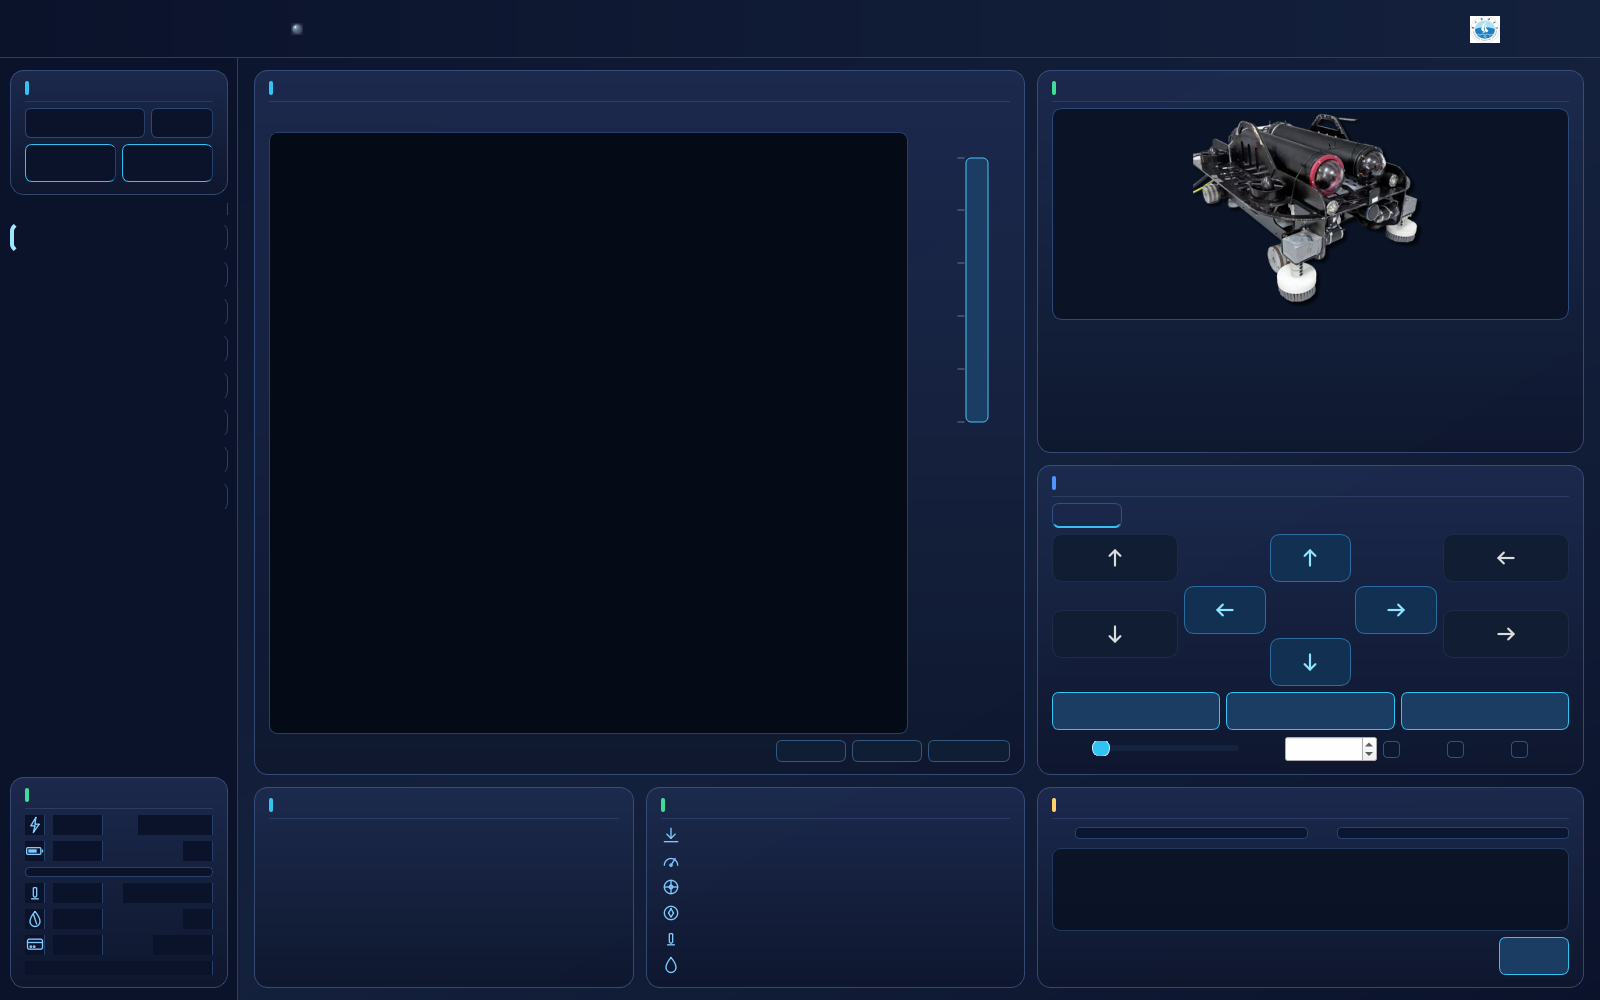
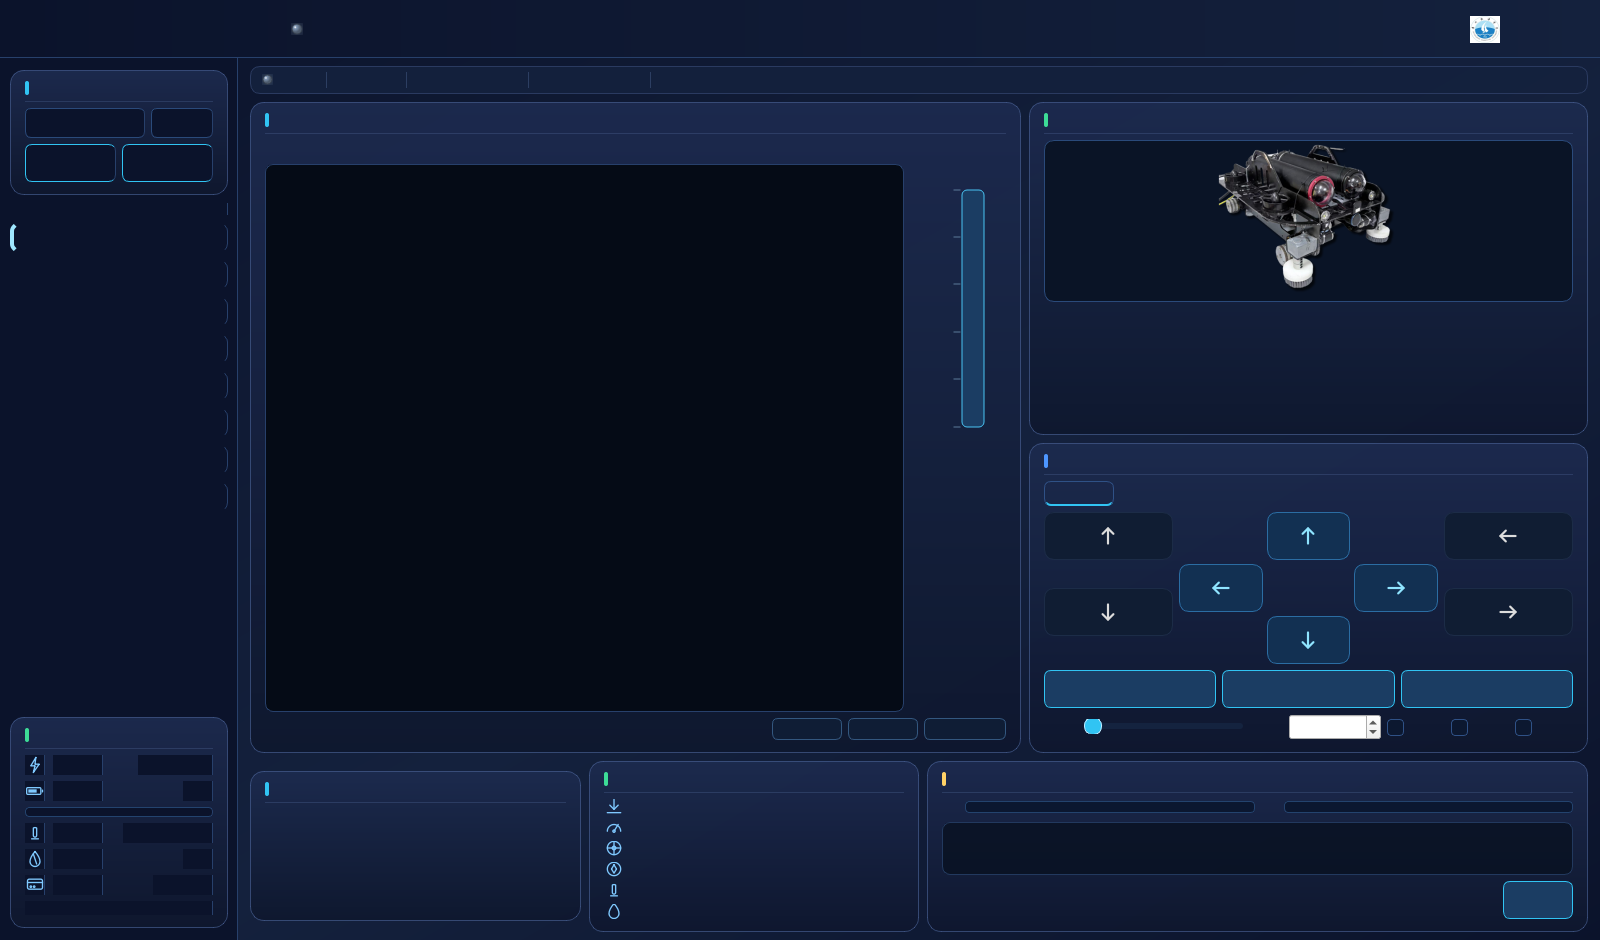
QGC紧凑版demo：顶部状态条+首页紧凑卡片布局+接线实时值+收紧留白

diff --git a/dashboard.py b/dashboard.py
@@ -573,33 +573,109 @@ class Dashboard(QWidget):
         self._stack.setCurrentIndex(0)
         return host
 
+    def _toolbar(self):
+        """QGC 式紧凑状态条：顶部一条细栏，状态以“药丸”紧凑排布，不占大片空间"""
+        bar = QWidget()
+        bar.setObjectName("toolbar")
+        bar.setStyleSheet(
+            "QWidget#toolbar{background:rgba(20,33,61,235);"
+            "border:1px solid #2A3A60;border-radius:10px;}")
+        lay = QHBoxLayout(bar)
+        lay.setContentsMargins(12, 6, 12, 6)
+        lay.setSpacing(12)
+
+        def vsep():
+            s = QFrame()
+            s.setFixedSize(1, 16)
+            s.setStyleSheet("background:rgba(90,116,168,90);border:none;")
+            return s
+
+        def pill(label, color=TXT):
+            h = QHBoxLayout()
+            h.setSpacing(5)
+            lb = QLabel(label)
+            lb.setStyleSheet("color:%s;font-size:11px;" % TXT_SUB)
+            val = QLabel("--")
+            val.setStyleSheet("color:%s;font-size:13px;font-weight:800;" % color)
+            _mono(val)
+            h.addWidget(lb)
+            h.addWidget(val)
+            return h, val
+
+        # 连接
+        self._tool_dot = StatusLight("#5b6b80", 11)
+        self._tool_conn = QLabel("未连接")
+        self._tool_conn.setStyleSheet("color:%s;font-size:12px;font-weight:700;" % TXT_SUB)
+        con = QHBoxLayout()
+        con.setSpacing(5)
+        con.addWidget(self._tool_dot)
+        con.addWidget(self._tool_conn)
+        lay.addLayout(con)
+
+        h, self._tool_mode = pill("模式", BLUE)
+        self._tool_mode.setText("手动")
+        lay.addWidget(vsep())
+        lay.addLayout(h)
+        h, self._tool_depth = pill("深度", CYAN)
+        lay.addWidget(vsep())
+        lay.addLayout(h)
+        h, self._tool_volt = pill("电压", GREEN)
+        lay.addWidget(vsep())
+        lay.addLayout(h)
+        h, self._tool_bat = pill("电量", GREEN)
+        lay.addWidget(vsep())
+        lay.addLayout(h)
+
+        lay.addStretch(1)
+        if getattr(self, "_lively", False):
+            tm = QLabel("演示模式")
+        else:
+            tm = QLabel("展会演示模式")
+        tm.setStyleSheet("color:%s;font-size:11px;" % TXT_SUB)
+        lay.addWidget(tm)
+        return bar
+
     def _overview_page(self):
+        """QGC 式首页：顶部紧凑状态条 + 左侧视频主画面(撑满) + 右侧/底部紧凑卡片(贴内容)"""
         page = QWidget()
-        grid = QGridLayout(page)
-        grid.setContentsMargins(16, 12, 16, 12)
-        grid.setSpacing(12)
+        outer = QVBoxLayout(page)
+        outer.setContentsMargins(12, 8, 12, 8)
+        outer.setSpacing(8)
+        outer.addWidget(self._toolbar())
 
         self._video_box, self._video_body = _panel("实时画面 · CAM 01", CYAN)
-        grid.addWidget(self._video_box, 0, 0, 2, 2)
         self._equip_box, self._equip_body = _panel("设备状态", GREEN)
-        grid.addWidget(self._equip_box, 0, 2, 1, 2)
         self._motion_box, self._motion_body = _panel("运动控制 · 手动模式", BLUE)
-        grid.addWidget(self._motion_box, 1, 2, 1, 2)
         self._task_box, self._task_body = _panel("任务信息", CYAN)
-        grid.addWidget(self._task_box, 2, 0)
         self._sensor_box, self._sensor_body = _panel("传感器数据", GREEN)
-        grid.addWidget(self._sensor_box, 2, 1)
         self._alarm_box, self._alarm_body = _panel("推进器输出与告警", YELLOW)
-        grid.addWidget(self._alarm_box, 2, 2, 1, 2)
 
-        grid.setColumnStretch(0, 4)
-        grid.setColumnStretch(1, 4)
-        grid.setColumnStretch(2, 4)
-        grid.setColumnStretch(3, 4)
-        grid.setRowStretch(0, 5)
-        grid.setRowStretch(1, 4)
-        grid.setRowStretch(2, 4)
-        grid.setColumnMinimumWidth(2, 320)
+        # 主区：左视频(主画面, 撑满) + 右紧凑卡片列(贴内容, 顶部对齐)
+        main = QHBoxLayout()
+        main.setSpacing(8)
+        main.addWidget(self._video_box, 5)
+        right = QVBoxLayout()
+        right.setSpacing(8)
+        for b in (self._equip_box, self._motion_box):
+            b.setSizePolicy(QSizePolicy.Preferred, QSizePolicy.Maximum)   # 高度贴内容, 不再撑满
+        right.addWidget(self._equip_box)
+        right.addWidget(self._motion_box)
+        right.addStretch(1)          # 卡片聚顶, 下方留白（QGC 仪表盘风）
+        main.addLayout(right, 4)
+        outer.addLayout(main, 1)
+
+        # 底部紧凑横带：任务信息 / 传感器数据 / 推进器输出与告警
+        bottom = QHBoxLayout()
+        bottom.setSpacing(8)
+        for b in (self._task_box, self._sensor_box, self._alarm_box):
+            b.setSizePolicy(QSizePolicy.Preferred, QSizePolicy.Maximum)
+        self._task_box.setMinimumHeight(150)
+        self._sensor_box.setMinimumHeight(150)
+        self._alarm_box.setMinimumHeight(150)
+        bottom.addWidget(self._task_box, 1)
+        bottom.addWidget(self._sensor_box, 1)
+        bottom.addWidget(self._alarm_box, 2)
+        outer.addLayout(bottom)
 
         self._build_video()
         self._build_equipment()
@@ -615,7 +691,7 @@ class Dashboard(QWidget):
     def _monitor_page(self):
         page = QWidget()
         grid = QGridLayout(page)
-        grid.setContentsMargins(16, 12, 16, 12)
+        grid.setContentsMargins(12, 8, 12, 8)
         grid.setSpacing(12)
         box, body = _panel("实时监控 · 视频与关键数据", CYAN)
         self._monitor_video = QLabel("实时视频（连接 91 后显示）")
@@ -652,7 +728,7 @@ class Dashboard(QWidget):
     def _mission_page(self):
         page = QWidget()
         lay = QVBoxLayout(page)
-        lay.setContentsMargins(16, 12, 16, 12)
+        lay.setContentsMargins(12, 8, 12, 8)
         lay.setSpacing(12)
         box, body = _panel("任务规划 · 航点列表", CYAN)
         self._wp_table = QTableWidget(0, 4)
@@ -737,7 +813,7 @@ class Dashboard(QWidget):
     def _autonomous_page(self):
         page = QWidget()
         grid = QGridLayout(page)
-        grid.setContentsMargins(16, 12, 16, 12)
+        grid.setContentsMargins(12, 8, 12, 8)
         grid.setSpacing(12)
         box, body = _panel("自主控制 · 演示配置", BLUE)
         r = QHBoxLayout()
@@ -849,7 +925,7 @@ class Dashboard(QWidget):
     def _sonar_page(self):
         page = QWidget()
         lay = QVBoxLayout(page)
-        lay.setContentsMargins(16, 12, 16, 12)
+        lay.setContentsMargins(12, 8, 12, 8)
         lay.setSpacing(12)
         box, body = _panel("声纳探测 · 演示 / 待接入", CYAN)
         top = QHBoxLayout()
@@ -909,7 +985,7 @@ class Dashboard(QWidget):
     def _settings_page(self):
         page = QWidget()
         grid = QGridLayout(page)
-        grid.setContentsMargins(16, 12, 16, 12)
+        grid.setContentsMargins(12, 8, 12, 8)
         grid.setSpacing(12)
 
         box, body = _panel("系统设置 · 主控连接", CYAN)
@@ -1017,7 +1093,7 @@ class Dashboard(QWidget):
     def _data_page(self):
         page = QWidget()
         grid = QGridLayout(page)
-        grid.setContentsMargins(16, 12, 16, 12)
+        grid.setContentsMargins(12, 8, 12, 8)
         grid.setSpacing(12)
         box, body = _panel("数据管理 · 指令/遥测记录", CYAN)
         top = QHBoxLayout()
@@ -1087,7 +1163,7 @@ class Dashboard(QWidget):
     def _logs_page(self):
         page = QWidget()
         grid = QGridLayout(page)
-        grid.setContentsMargins(16, 12, 16, 12)
+        grid.setContentsMargins(12, 8, 12, 8)
         grid.setSpacing(12)
         box, body = _panel("日志信息 · 分级筛选", YELLOW)
         top = QHBoxLayout()
@@ -1235,7 +1311,7 @@ class Dashboard(QWidget):
         if os.path.exists(path):
             pm = QPixmap(path)
             if not pm.isNull():
-                photo.setPixmap(pm.scaledToHeight(210, Qt.SmoothTransformation))
+                photo.setPixmap(pm.scaledToHeight(160, Qt.SmoothTransformation))
         else:
             photo.setText("ROV 示意图（待放置俯视图）")
         photo.setStyleSheet(
@@ -1673,7 +1749,12 @@ class Dashboard(QWidget):
         self._online_dot.set_color(GREEN if ok else "#5b6b80")
         self._online_txt.setText("在线" if ok else "离线")
         self._online_txt.setStyleSheet(
-            "color:%s; font-size:12px;" % (GREEN if ok else TXT_SUB))
+            "color:%s; font-size:12px; font-weight:700;" % (GREEN if ok else TXT_SUB))
+        if hasattr(self, "_tool_dot"):
+            self._tool_dot.set_color(GREEN if ok else "#5b6b80")
+            self._tool_conn.setText("已连接" if ok else "未连接")
+            self._tool_conn.setStyleSheet(
+                "color:%s; font-size:12px; font-weight:700;" % (GREEN if ok else TXT_SUB))
 
     def _tick_ui(self):
         now = datetime.now()
@@ -1696,6 +1777,13 @@ class Dashboard(QWidget):
         for val, key, fmt, _col in self._sys_rows:
             val.setText(fmt % v_sys[key])
         self._bat_bar.setValue(int(v_sys["battery"]))
+        # 顶部紧凑状态条
+        if hasattr(self, "_tool_depth"):
+            self._tool_depth.setText("%.1f m" % v["depth_m"])
+        if hasattr(self, "_tool_volt"):
+            self._tool_volt.setText("%.1f V" % v_sys["voltage"])
+        if hasattr(self, "_tool_bat"):
+            self._tool_bat.setText("%.0f%%" % v_sys["battery"])
         if self._status_rows:
             self._status_rows[5][1].setText("%.1f °C" % v["motor_temp"])
         # 遥测记录（缺省归零）
